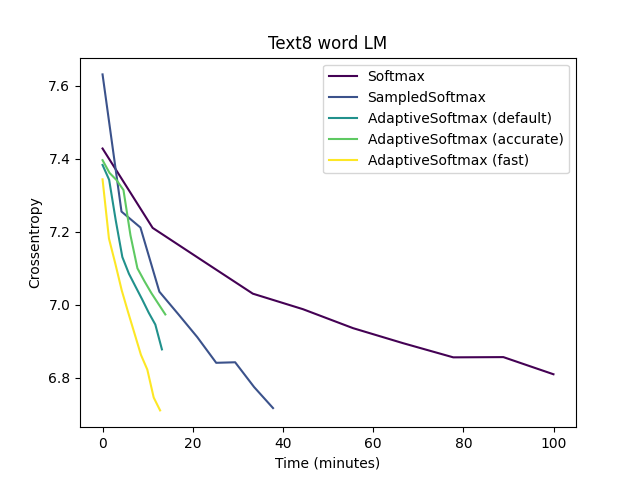
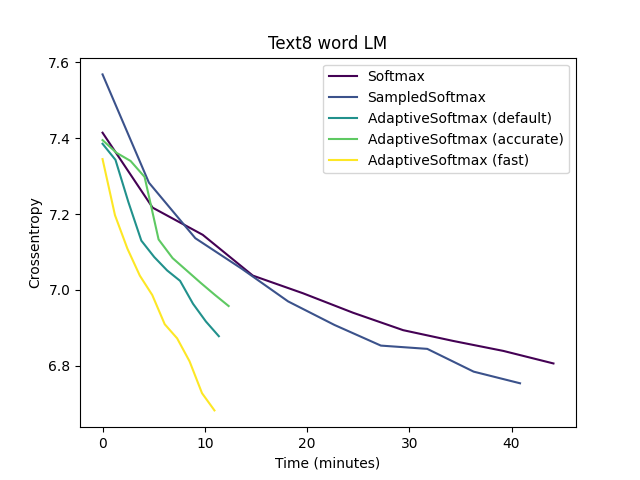
Adaptive softmax graps w/ and w/o probs estimation

diff --git a/examples/adaprive_softmax/text8/text8_test.py b/examples/adaprive_softmax/text8/text8_test.py
@@ -22,6 +22,7 @@ if __name__ == "__main__":
     parser.add_argument('--seed', type=int, default=1111, help='Random seed')
     parser.add_argument('--cutoff', type=str, default='2000,10000', help='Adaptive softmax cutoffs')
     parser.add_argument('--negatives', type=int, default=10, help='Number of negative examples for sampled softmaxes')
+    parser.add_argument('--return_probs', action='store_true', default=False)
     argv, _ = parser.parse_known_args()
 
     argv_cutoff = [int(cf) for cf in argv.cutoff.split(',')]
@@ -43,7 +44,8 @@ if __name__ == "__main__":
             core=Text8Model.OUT_SM,
             dropout=argv.dropout,
             cutoff=argv_cutoff,
-            negatives=argv.negatives
+            negatives=argv.negatives,
+            return_probs=argv.return_probs
         ),
 
         Text8Model(
@@ -54,7 +56,8 @@ if __name__ == "__main__":
             core=Text8Model.OUT_SS,
             dropout=argv.dropout,
             cutoff=argv_cutoff,
-            negatives=argv.negatives
+            negatives=argv.negatives,
+            return_probs=argv.return_probs
         ),
 
         Text8Model(
@@ -65,7 +68,8 @@ if __name__ == "__main__":
             core=Text8Model.OUT_ASM,
             dropout=argv.dropout,
             cutoff=argv_cutoff,
-            negatives=argv.negatives
+            negatives=argv.negatives,
+            return_probs=argv.return_probs
         ),
         Text8Model(
             seq_len=argv.seq_len,
@@ -75,7 +79,8 @@ if __name__ == "__main__":
             core=Text8Model.OUT_ASM,
             dropout=argv.dropout,
             cutoff=[3526, 13950],
-            negatives=argv.negatives
+            negatives=argv.negatives,
+            return_probs=argv.return_probs
         ),
         Text8Model(
             seq_len=argv.seq_len,
@@ -85,7 +90,8 @@ if __name__ == "__main__":
             core=Text8Model.OUT_ASM,
             dropout=argv.dropout,
             cutoff=[454, 7358],
-            negatives=argv.negatives
+            negatives=argv.negatives,
+            return_probs=argv.return_probs
         ),
     ]
 
@@ -119,5 +125,8 @@ if __name__ == "__main__":
     pyplot.xlabel('Time (minutes)')
     pyplot.ylabel('Crossentropy')
     pyplot.legend()
-    pyplot.savefig('loss.png')
+    if argv.return_probs:
+        pyplot.savefig('loss.png')
+    else:
+        pyplot.savefig('speed_no_probs.png')
     pyplot.close()

diff --git a/examples/adaprive_softmax/text8/model.py b/examples/adaprive_softmax/text8/model.py
@@ -12,7 +12,7 @@ class Text8Model(models.Model):
     OUT_SS = 'SS'
     OUT_SM = 'SM'
 
-    def __init__(self, seq_len, vocab_size, embed_size, units, core, dropout, cutoff, negatives):
+    def __init__(self, seq_len, vocab_size, embed_size, units, core, dropout, cutoff, negatives, return_probs):
         inputs = layers.Input(shape=(seq_len,), dtype=tf.int32, name='inputs')
         targets = layers.Input(shape=(seq_len,), dtype=tf.int32, name='targets')
 
@@ -20,9 +20,9 @@ class Text8Model(models.Model):
         sequence = layers.LSTM(units=units, dropout=dropout, return_sequences=True)
 
         if self.OUT_ASM == core:
-            decoder = AdaptiveSoftmax(vocab_size, cutoff=cutoff)
+            decoder = AdaptiveSoftmax(vocab_size, cutoff=cutoff, return_probs=return_probs)
         elif self.OUT_SS == core:
-            decoder = SampledSofmax(vocab_size, negatives=negatives)
+            decoder = SampledSofmax(vocab_size, negatives=negatives, return_probs=return_probs)
         else:
             if not self.OUT_SM == core:
                 raise ValueError('Wrong "core" value')
